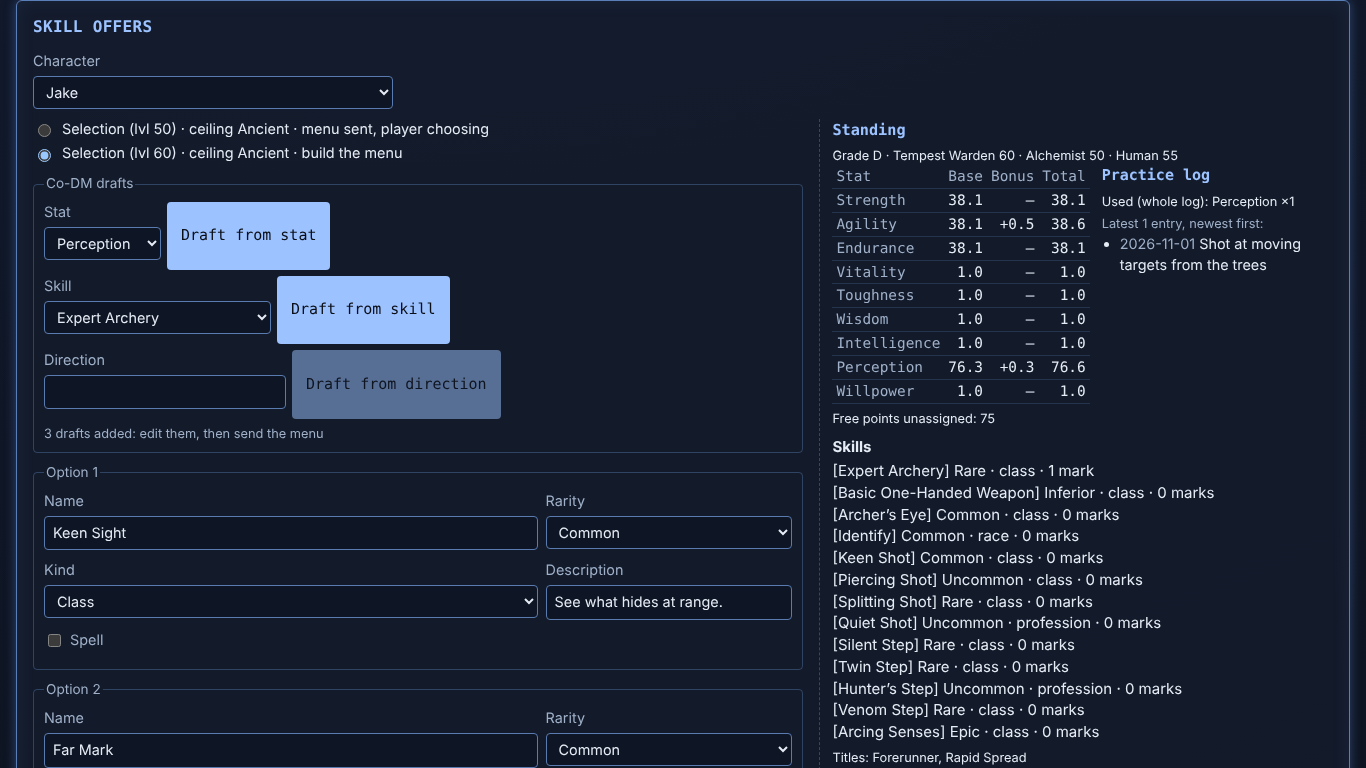
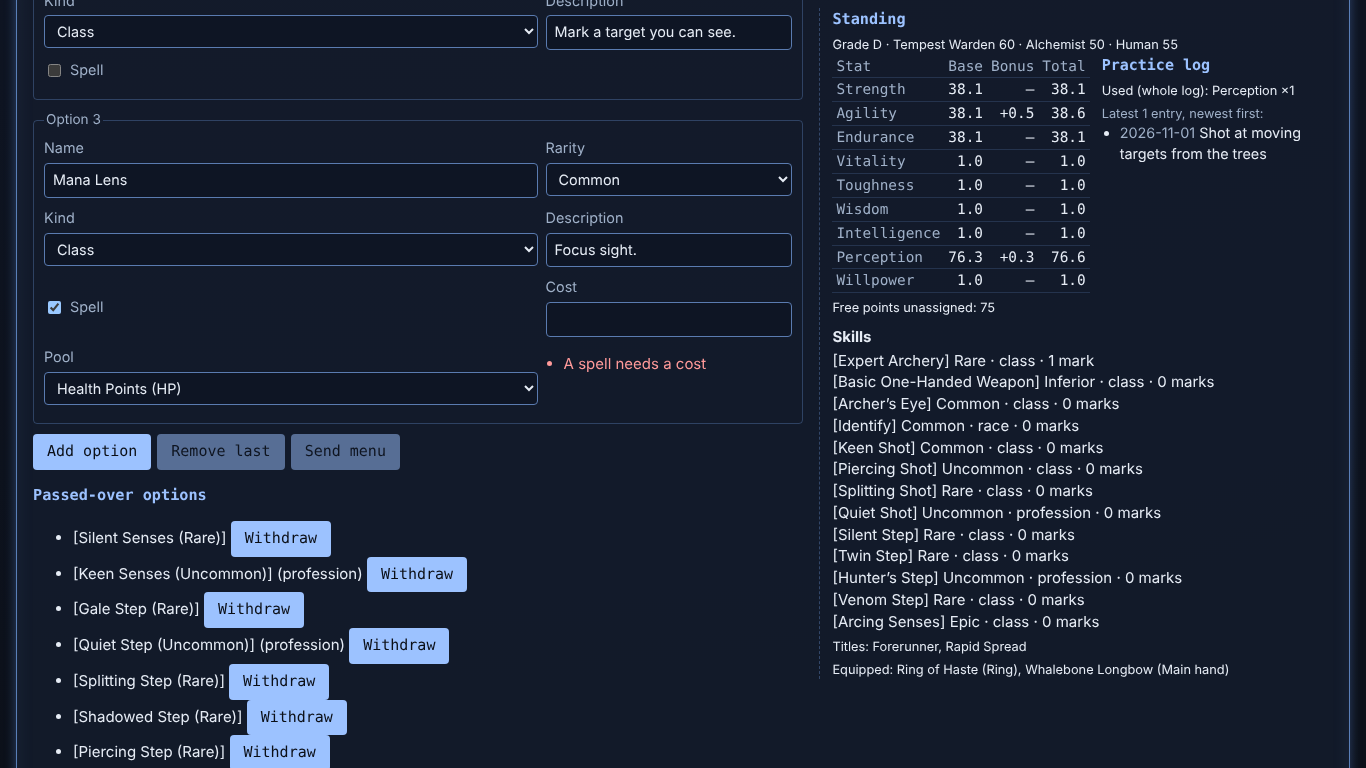
fix(MW.2): sending never changes an existing library entry; a refused menu leaves nothing; a late reply keeps edits; draft buttons sized
Review findings: cost overwrite is now a flag; the offer goes first; replies merge into current rows.

Claude-Session: https://claude.ai/code/session_015YxiCeffnc7sDKh9vpbUoK

diff --git a/apps/web/src/gm/OfferBuilder.tsx b/apps/web/src/gm/OfferBuilder.tsx
@@ -7,6 +7,7 @@ import {
   builderSlots,
   characterStanding,
   draftFlags,
+  libraryEntry,
   offerProblem,
   parseCost,
   practiceSkillCounts,
@@ -434,6 +435,11 @@ function MenuForm({
     kind: hasProfession ? r.kind : 'class',
     description: r.description.trim(),
   }));
+  // A reply can arrive long after its click: merge into the rows as they are then.
+  const latestRows = useRef(rows);
+  useEffect(() => {
+    latestRows.current = rows;
+  }, [rows]);
   const flags = draftFlags(state, characterId, level, rows);
   const flagged = flags.menu.length > 0 || flags.rows.some((f) => f.length > 0);
   const problem = offerProblem(state, characterId, level, options);
@@ -465,7 +471,9 @@ function MenuForm({
         costPool: d.cost?.pool ?? firstPool,
         costAmount: d.cost === null ? '' : String(d.cost.amount),
       }));
-      const merged = rows.filter((r) => r.name.trim() !== '');
+      const merged = latestRows.current.filter(
+        (r) => r.name.trim() !== '' || r.description.trim() !== '',
+      );
       const room = rules.skills.menuSize.max - merged.length;
       const taken = incoming.slice(0, Math.max(0, room));
       const next = [...merged, ...taken];
@@ -492,31 +500,6 @@ function MenuForm({
     // first one still needing a menu).
     onSent();
     setBusy(true);
-    // MW.2: a spell's cost lives on its library entry, which the chosen skill follows.
-    for (const row of rows) {
-      const amount = row.spell ? parseCost(row.costAmount) : null;
-      if (amount === null) continue;
-      const cost = { pool: row.costPool, amount };
-      const known = Object.values(state.skillLibrary).find(
-        (d) => d.name === row.name.trim() && d.rarity === row.rarity,
-      );
-      const saved = await client.command(
-        known
-          ? { type: 'skillDef.edit', skillDefId: known.id, cost }
-          : {
-              type: 'skillDef.define',
-              name: row.name.trim(),
-              rarity: row.rarity,
-              description: row.description.trim(),
-              cost,
-            },
-      );
-      if (!saved.ok) {
-        setBusy(false);
-        report(saved, '');
-        return;
-      }
-    }
     const r = await client.command({
       type: 'selection.offer',
       characterId,
@@ -528,8 +511,38 @@ function MenuForm({
         ...(o.description ? { description: o.description } : {}),
       })),
     });
+    if (!r.ok) {
+      setBusy(false);
+      report(r, '');
+      return;
+    }
+    // MW.2: a new spell's cost lives on a new library entry, which the chosen
+    // skill follows. Only after the menu is accepted, so a refused menu leaves
+    // nothing behind. An existing entry is never changed here (draftFlags).
+    const unsaved: string[] = [];
+    for (const row of rows) {
+      const amount = row.spell ? parseCost(row.costAmount) : null;
+      if (amount === null || libraryEntry(state, row.name, row.rarity)) continue;
+      const saved = await client.command({
+        type: 'skillDef.define',
+        name: row.name.trim(),
+        rarity: row.rarity,
+        description: row.description.trim(),
+        cost: { pool: row.costPool, amount },
+      });
+      if (!saved.ok) unsaved.push(row.name.trim());
+    }
     setBusy(false);
-    report(r, `Menu sent to ${character?.name ?? 'the player'} (lvl ${level})`);
+    const sent = `Menu sent to ${character?.name ?? 'the player'} (lvl ${level})`;
+    report(
+      unsaved.length === 0
+        ? r
+        : {
+            ok: false,
+            error: `${sent}, but the cost of ${unsaved.join(', ')} was not saved: add it in the skill library`,
+          },
+      sent,
+    );
     if (r.ok) setRows(fresh());
   };
   const setRow = (i: number, patch: Partial<Row>) =>

diff --git a/apps/web/test/offerBuilderModel.test.ts b/apps/web/test/offerBuilderModel.test.ts
@@ -297,6 +297,7 @@ describe('skill-offer draft flags (MW.2)', () => {
     rarity,
     spell,
     costAmount,
+    costPool: 'mana',
   });
   const state = campaign().state!;
 
@@ -323,8 +324,50 @@ describe('skill-offer draft flags (MW.2)', () => {
   it('flags a spell with no cost, and parses costs', () => {
     expect(draftFlags(state, 'jake', 2, [row('A', 'common', true)]).rows[0]?.[0]).toMatch(/cost/);
     expect(draftFlags(state, 'jake', 2, [row('A', 'common', true, '0')]).rows[0]).toHaveLength(1);
+    expect(draftFlags(state, 'jake', 2, [row('', 'common', true)]).rows[0]).toEqual([]);
     expect(parseCost(' 5 ')).toBe(5);
     expect(parseCost('1.5')).toBeNull();
     expect(parseCost('')).toBeNull();
+  });
+});
+
+describe('a spell row and the library (MW.2 review)', () => {
+  const base = campaign().state!;
+  const pool = base.rules.pools[0]!.id;
+  const withEntry = (cost: { pool: string; amount: number } | null) =>
+    ({
+      ...base,
+      skillLibrary: {
+        bolt: {
+          ...Object.values(base.skillLibrary)[0],
+          id: 'bolt',
+          name: 'Bolt',
+          rarity: 'common',
+          cost,
+        },
+      },
+    }) as unknown as typeof base;
+  const spell = (costAmount: string) => ({
+    name: 'Bolt',
+    rarity: 'common',
+    kind: 'class',
+    description: '',
+    spell: true,
+    costPool: pool,
+    costAmount,
+  });
+  it('flags a cost that differs from the entry, so sending cannot change it', () => {
+    const flags = draftFlags(withEntry({ pool, amount: 3 }), 'jake', 2, [spell('5')]).rows[0]!;
+    expect(flags).toHaveLength(1);
+    expect(flags[0]).toMatch(/library's Bolt costs 3 .*match it or rename/);
+  });
+  it('accepts the matching cost', () => {
+    expect(draftFlags(withEntry({ pool, amount: 3 }), 'jake', 2, [spell('3')]).rows[0]).toEqual([]);
+  });
+  it('flags a cost on an entry that has none', () => {
+    expect(draftFlags(withEntry(null), 'jake', 2, [spell('3')]).rows[0]![0]).toMatch(/has no cost/);
+  });
+  it('a new name is free to define its cost', () => {
+    expect(draftFlags(base, 'jake', 2, [spell('3')]).rows[0]).toEqual([]);
   });
 });

diff --git a/apps/web/src/gm/offerBuilderModel.ts b/apps/web/src/gm/offerBuilderModel.ts
@@ -88,6 +88,7 @@ export interface DraftRow {
   readonly spell: boolean;
   /** Amount typed for a spell's cost; a whole number above 0 is a cost. */
   readonly costAmount: string;
+  readonly costPool: string;
 }
 
 /** A spell's typed cost, or null when it is not a whole number above 0. */
@@ -102,6 +103,13 @@ export function parseCost(amount: string): number | null {
  * a rarity above the ceiling, a missed capstone, a name the character has or
  * another row has, a spell with no cost. A flagged menu cannot be sent.
  */
+/** The library entry a menu row would follow (keyed by name and rarity, L4). */
+export function libraryEntry(state: CampaignState, name: string, rarity: string) {
+  return Object.values(state.skillLibrary).find(
+    (d) => d.name === name.trim() && d.rarity === rarity,
+  );
+}
+
 export function draftFlags(
   state: CampaignState,
   characterId: string,
@@ -127,7 +135,18 @@ export function draftFlags(
     if (name !== '' && rows.some((o, j) => j < i && key(o.name) === name)) {
       flags.push('Another option has this name');
     }
-    if (r.spell && parseCost(r.costAmount) === null) flags.push('A spell needs a cost');
+    if (name !== '' && r.spell) {
+      const amount = parseCost(r.costAmount);
+      const known = libraryEntry(state, r.name, r.rarity);
+      if (amount === null) flags.push('A spell needs a cost');
+      // Sending never changes a library entry other characters may follow.
+      else if (known && (known.cost?.amount !== amount || known.cost.pool !== r.costPool)) {
+        const has = known.cost
+          ? `costs ${known.cost.amount} ${rules.pools.find((p) => p.id === known.cost?.pool)?.name ?? known.cost.pool}`
+          : 'has no cost';
+        flags.push(`The library's ${known.name} ${has}: match it or rename this option`);
+      }
+    }
     return flags;
   });
   const named = rows.filter((r) => key(r.name) !== '');

diff --git a/e2e/MW.2.spec.ts b/e2e/MW.2.spec.ts
@@ -90,7 +90,7 @@ test('draft from Perception, fix the flag, edit, offer; the player sees the menu
   // The spell has no cost: flagged, and the menu cannot go.
   await expect(menu.getByTestId('draft-flags-2')).toContainText('A spell needs a cost');
   await expect(send).toBeDisabled();
-  await builder.evaluate((el) => el.scrollIntoView({ block: 'start' }));
+  await menu.getByTestId('draft-flags-2').evaluate((el) => el.scrollIntoView({ block: 'center' }));
   await gm.screenshot({ path: path.join(shots, 'gm-drafts-flagged-1366x768.png') });
 
   await row(3).getByRole('textbox', { name: 'Option 3 cost' }).fill('5');

diff --git a/apps/web/src/styles.css b/apps/web/src/styles.css
@@ -2557,6 +2557,11 @@ ol.change-log li.undone .change-text {
 }
 .offer-drafts .row {
   margin-bottom: 6px;
+  align-items: flex-end;
+}
+.offer-drafts .row button {
+  flex: none;
+  width: 11em;
 }
 .offer-flags {
   margin: 6px 0 0;
